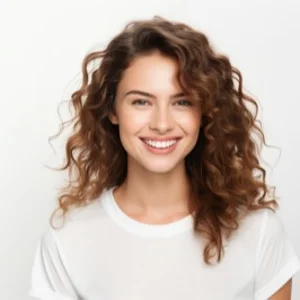
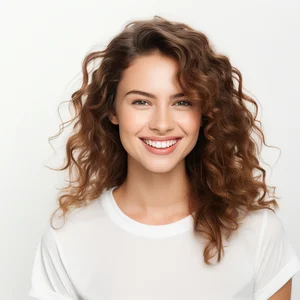
Standardize contact forms, fix periodontal page content, and update hero images

diff --git a/periodontal-gum-treatments.html b/periodontal-gum-treatments.html
@@ -2914,14 +2914,14 @@
         <span style="margin: 0 8px; color: var(--gold-light);">/</span>
         <span style="color: var(--sage-light);">General &amp; Family Dentistry</span>
         <span style="margin: 0 8px; color: var(--gold-light);">/</span>
-        <span style="color: var(--ivory);">General Dentistry</span>
+        <span style="color: var(--ivory);">Periodontal (Gum) Treatment</span>
       </p>
       <div class="gold-badge">
         <svg width="14" height="14" viewBox="0 0 24 24" fill="none" stroke="currentColor" stroke-width="2" stroke-linecap="round" stroke-linejoin="round" style="margin-right: 4px;"><path d="M12 2l3.09 6.26L22 9.27l-5 4.87 1.18 6.88L12 17.77l-6.18 3.25L7 14.14 2 9.27l6.91-1.01L12 2z"></path></svg>
-        Everyday Dental Care, Planned Around Your Needs
+        Comprehensive Care for Healthy Gums
       </div>
-      <h1 class="hero-title">General Dentistry in&nbsp;Harrow</h1>
-      <p class="hero-subtitle">General dentistry in Harrow covers the everyday care that helps you maintain your oral health while also addressing common dental concerns &mdash; your appointments can be planned around your individual needs.</p>
+      <h1 class="hero-title">Periodontal (Gum) Treatment in&nbsp;Harrow</h1>
+      <p class="hero-subtitle">Healthy gums support your teeth and protect the structures beneath the gum line. We combine detailed assessment, personalised treatment planning and ongoing preventive care to help maintain the health of your gums.</p>
 
       <div class="hero-actions">
         <a href="#contact" class="btn-primary btn-gold" style="padding: 16px 36px; font-size: 16px;">
@@ -3061,7 +3061,7 @@
         </div>
 
         <div class="process-image">
-          <img src="./gallery-periodontal-process.webp" alt="Gum health assessment at Woodlands Centre for Dentistry" style="width: 100%; height: 100%; object-fit: cover; display: block;">
+          <img src="./gallery-periodontal-hero.webp" alt="Gum health assessment at Woodlands Centre for Dentistry" style="width: 100%; height: 100%; object-fit: cover; display: block;">
         </div>
 
         <div class="process-tile">
@@ -3238,7 +3238,7 @@
           <div class="review-stars">★★★★★</div>
           <img src="https://img.icons8.com/color/48/google-logo.png" alt="Google Review" style="width: 22px; height: 22px;">
         </div>
-        <p class="review-quote">"The planning was so clear before we even started. Excellent, modern clinic for cosmetic dentistry."</p>
+        <p class="review-quote">"My gum treatment plan was explained so clearly before we started. Excellent, modern clinic for periodontal care."</p>
         <div class="review-author">— Robert B. (Moor Park)</div>
       </div>
       <div class="review-marquee-card">
@@ -3272,7 +3272,7 @@
           <div class="review-stars">★★★★★</div>
           <img src="https://img.icons8.com/color/48/google-logo.png" alt="Google Review" style="width: 22px; height: 22px;">
         </div>
-        <p class="review-quote">"The planning was so clear before we even started. Excellent, modern clinic for cosmetic dentistry."</p>
+        <p class="review-quote">"My gum treatment plan was explained so clearly before we started. Excellent, modern clinic for periodontal care."</p>
         <div class="review-author">— Robert B. (Moor Park)</div>
       </div>
       <div class="review-marquee-card">
@@ -3300,7 +3300,7 @@
           <div class="review-stars">★★★★★</div>
           <img src="https://img.icons8.com/color/48/google-logo.png" alt="Google Review" style="width: 22px; height: 22px;">
         </div>
-        <p class="review-quote">"I was nervous about changing my smile but the whole process was explained clearly and I felt in control every step of the way."</p>
+        <p class="review-quote">"I was nervous about my gum disease diagnosis but the whole process was explained clearly and I felt in control every step of the way."</p>
         <div class="review-author">— Priya K. (Pinner)</div>
       </div>
       <div class="review-marquee-card">
@@ -3334,7 +3334,7 @@
           <div class="review-stars">★★★★★</div>
           <img src="https://img.icons8.com/color/48/google-logo.png" alt="Google Review" style="width: 22px; height: 22px;">
         </div>
-        <p class="review-quote">"I was nervous about changing my smile but the whole process was explained clearly and I felt in control every step of the way."</p>
+        <p class="review-quote">"I was nervous about my gum disease diagnosis but the whole process was explained clearly and I felt in control every step of the way."</p>
         <div class="review-author">— Priya K. (Pinner)</div>
       </div>
       <div class="review-marquee-card">
@@ -3459,10 +3459,10 @@
           <input type="text" class="form-input" placeholder="Name *" required>
         </div>
         <div class="form-group">
-          <input type="tel" class="form-input" placeholder="Phone *" required>
+          <input type="email" class="form-input" placeholder="Email *" required>
         </div>
         <div class="form-group">
-          <input type="email" class="form-input" placeholder="Email *" required>
+          <input type="tel" class="form-input" placeholder="Phone *" required>
         </div>
         <div class="form-group">
           <textarea class="form-input" style="height: 120px; resize: none;" placeholder="Message *" required></textarea>

diff --git a/referrals.html b/referrals.html
@@ -2951,6 +2951,14 @@
           <textarea class="form-input" style="height: 120px; resize: none;" placeholder="Clinical Notes / Additional Information *" required></textarea>
         </div>
 
+        <div class="form-group">
+          <label for="referral-file-upload" class="form-input" style="display: flex; align-items: center; gap: 10px; cursor: pointer; color: var(--text-muted);">
+            <svg width="18" height="18" viewBox="0 0 24 24" fill="none" stroke="currentColor" stroke-width="2" stroke-linecap="round" stroke-linejoin="round" style="flex-shrink: 0;"><path d="M21.44 11.05l-9.19 9.19a6 6 0 0 1-8.49-8.49l9.19-9.19a4 4 0 0 1 5.66 5.66l-9.2 9.19a2 2 0 0 1-2.83-2.83l8.49-8.48"></path></svg>
+            <span id="referral-file-upload-text">Attach X-Rays / Referral Letter (optional &mdash; PDF, JPG or PNG, max 3MB)</span>
+          </label>
+          <input type="file" id="referral-file-upload" accept=".pdf,.jpg,.jpeg,.png" style="display: none;" onchange="if (this.files.length &amp;&amp; this.files[0].size > 3*1024*1024) { alert('File is larger than 3MB. Please choose a smaller file.'); this.value = ''; document.getElementById('referral-file-upload-text').textContent = 'Attach X-Rays / Referral Letter (optional — PDF, JPG or PNG, max 3MB)'; } else { document.getElementById('referral-file-upload-text').textContent = this.files.length ? this.files[0].name : 'Attach X-Rays / Referral Letter (optional — PDF, JPG or PNG, max 3MB)'; }">
+        </div>
+
         <div class="form-group" style="display: flex; align-items: flex-start; gap: 10px; margin-bottom: 28px;">
           <input type="checkbox" id="referral-consent" required style="margin-top: 4px; width: 18px; height: 18px; flex-shrink: 0;">
           <label for="referral-consent" style="font-size: 14px; color: var(--text-muted); line-height: 1.5;">I confirm the patient has consented to this referral and to their information being shared with Woodlands Centre for Dentistry for the purpose of this treatment. *</label>

diff --git a/preventive-dentistry.html b/preventive-dentistry.html
@@ -3031,7 +3031,7 @@
         </div>
 
         <div class="process-image">
-          <img src="./gallery-preventive-process.webp" alt="Preventive dental care at Woodlands Centre for Dentistry" style="width: 100%; height: 100%; object-fit: cover; display: block;">
+          <img src="./gallery-preventive-hero.webp" alt="Preventive dental care at Woodlands Centre for Dentistry" style="width: 100%; height: 100%; object-fit: cover; display: block;">
         </div>
 
         <div class="process-tile">
@@ -3280,9 +3280,15 @@
       <p class="section-desc" style="color: var(--sage-light); font-size: 16px; margin-bottom: 32px;">Looking for a private dentist in Harrow? Fill in your details below, and our friendly reception team will reach out to confirm your preferred time.</p>
 
       <form onsubmit="event.preventDefault(); alert('Thank you! We will call you shortly.');">
-        <div class="form-group"><input type="text" class="form-input" placeholder="Name *" required></div>
-        <div class="form-group"><input type="tel" class="form-input" placeholder="Phone *" required></div>
-        <div class="form-group"><input type="email" class="form-input" placeholder="Email *" required></div>
+        <div class="form-group">
+          <input type="text" class="form-input" placeholder="Name *" required>
+        </div>
+        <div class="form-group">
+          <input type="email" class="form-input" placeholder="Email *" required>
+        </div>
+        <div class="form-group">
+          <input type="tel" class="form-input" placeholder="Phone *" required>
+        </div>
         <div class="form-group"><textarea class="form-input" style="height: 120px; resize: none;" placeholder="Message *" required></textarea></div>
         <button type="submit" class="btn-primary btn-gold form-submit-btn" style="justify-content: center; padding: 16px 32px; font-size: 16px;">Send Consultation Request →</button>
       </form>

diff --git a/removable-braces-for-kids.html b/removable-braces-for-kids.html
@@ -3081,7 +3081,7 @@
         </div>
 
         <div class="process-image">
-          <img src="./gallery-removablekids-process.webp" alt="Removable orthodontic appliances for children at Woodlands Centre for Dentistry" style="width: 100%; height: 100%; object-fit: cover; display: block;">
+          <img src="./gallery-removablekids-hero.webp" alt="Removable orthodontic appliances for children at Woodlands Centre for Dentistry" style="width: 100%; height: 100%; object-fit: cover; display: block;">
         </div>
 
         <div class="process-tile">
@@ -3499,10 +3499,10 @@
           <input type="text" class="form-input" placeholder="Name *" required>
         </div>
         <div class="form-group">
-          <input type="tel" class="form-input" placeholder="Phone *" required>
+          <input type="email" class="form-input" placeholder="Email *" required>
         </div>
         <div class="form-group">
-          <input type="email" class="form-input" placeholder="Email *" required>
+          <input type="tel" class="form-input" placeholder="Phone *" required>
         </div>
         <div class="form-group">
           <textarea class="form-input" style="height: 120px; resize: none;" placeholder="Message *" required></textarea>

diff --git a/fixed-braces.html b/fixed-braces.html
@@ -3057,7 +3057,7 @@
         </div>
 
         <div class="process-image">
-          <img src="./gallery-fixedbraces-process.webp" alt="Discussing children's fixed braces treatment at Woodlands Centre for Dentistry" style="width: 100%; height: 100%; object-fit: cover; display: block;">
+          <img src="./gallery-fixedbraces-hero.webp" alt="Discussing children's fixed braces treatment at Woodlands Centre for Dentistry" style="width: 100%; height: 100%; object-fit: cover; display: block;">
         </div>
 
         <div class="process-tile">
@@ -3455,10 +3455,10 @@
           <input type="text" class="form-input" placeholder="Name *" required>
         </div>
         <div class="form-group">
-          <input type="tel" class="form-input" placeholder="Phone *" required>
+          <input type="email" class="form-input" placeholder="Email *" required>
         </div>
         <div class="form-group">
-          <input type="email" class="form-input" placeholder="Email *" required>
+          <input type="tel" class="form-input" placeholder="Phone *" required>
         </div>
         <div class="form-group">
           <textarea class="form-input" style="height: 120px; resize: none;" placeholder="Message *" required></textarea>

diff --git a/invisalign-first.html b/invisalign-first.html
@@ -3059,7 +3059,7 @@
         </div>
 
         <div class="process-image">
-          <img src="./gallery-invisalignfirst-process.webp" alt="Invisalign First treatment for children at Woodlands Centre for Dentistry" style="width: 100%; height: 100%; object-fit: cover; display: block;">
+          <img src="./gallery-invisalignfirst-hero.webp" alt="Invisalign First treatment for children at Woodlands Centre for Dentistry" style="width: 100%; height: 100%; object-fit: cover; display: block;">
         </div>
 
         <div class="process-tile">
@@ -3457,10 +3457,10 @@
           <input type="text" class="form-input" placeholder="Name *" required>
         </div>
         <div class="form-group">
-          <input type="tel" class="form-input" placeholder="Phone *" required>
+          <input type="email" class="form-input" placeholder="Email *" required>
         </div>
         <div class="form-group">
-          <input type="email" class="form-input" placeholder="Email *" required>
+          <input type="tel" class="form-input" placeholder="Phone *" required>
         </div>
         <div class="form-group">
           <textarea class="form-input" style="height: 120px; resize: none;" placeholder="Message *" required></textarea>

diff --git a/invisalign-for-teens.html b/invisalign-for-teens.html
@@ -3061,7 +3061,7 @@
         </div>
 
         <div class="process-image">
-          <img src="./gallery-invisalignteens-process.webp" alt="Invisalign for Teens treatment planning at Woodlands Centre for Dentistry" style="width: 100%; height: 100%; object-fit: cover; display: block;">
+          <img src="./gallery-invisalignteens-hero.webp" alt="Invisalign for Teens treatment planning at Woodlands Centre for Dentistry" style="width: 100%; height: 100%; object-fit: cover; display: block;">
         </div>
 
         <div class="process-tile">
@@ -3490,10 +3490,10 @@
           <input type="text" class="form-input" placeholder="Name *" required>
         </div>
         <div class="form-group">
-          <input type="tel" class="form-input" placeholder="Phone *" required>
+          <input type="email" class="form-input" placeholder="Email *" required>
         </div>
         <div class="form-group">
-          <input type="email" class="form-input" placeholder="Email *" required>
+          <input type="tel" class="form-input" placeholder="Phone *" required>
         </div>
         <div class="form-group">
           <textarea class="form-input" style="height: 120px; resize: none;" placeholder="Message *" required></textarea>

diff --git a/implant-consultations.html b/implant-consultations.html
@@ -3036,7 +3036,7 @@
         </div>
 
         <div class="process-image">
-          <img src="./gallery-consult-process.webp" alt="Dental implant model used during consultations at Woodlands Centre for Dentistry" style="width: 100%; height: 100%; object-fit: cover; display: block;">
+          <img src="./gallery-consult-hero.webp" alt="Dental implant model used during consultations at Woodlands Centre for Dentistry" style="width: 100%; height: 100%; object-fit: cover; display: block;">
         </div>
 
         <div class="process-tile">
@@ -3404,10 +3404,10 @@
           <input type="text" class="form-input" placeholder="Name *" required>
         </div>
         <div class="form-group">
-          <input type="tel" class="form-input" placeholder="Phone *" required>
+          <input type="email" class="form-input" placeholder="Email *" required>
         </div>
         <div class="form-group">
-          <input type="email" class="form-input" placeholder="Email *" required>
+          <input type="tel" class="form-input" placeholder="Phone *" required>
         </div>
         <div class="form-group">
           <textarea class="form-input" style="height: 120px; resize: none;" placeholder="Message *" required></textarea>

diff --git a/smile-rehabilitation.html b/smile-rehabilitation.html
@@ -3034,7 +3034,7 @@
         </div>
 
         <div class="process-image">
-          <img src="./gallery-smilerehab-process.webp" alt="Smile rehabilitation treatment planning at Woodlands Centre for Dentistry" style="width: 100%; height: 100%; object-fit: cover; display: block;">
+          <img src="./gallery-smilerehab-hero.webp" alt="Smile rehabilitation treatment planning at Woodlands Centre for Dentistry" style="width: 100%; height: 100%; object-fit: cover; display: block;">
         </div>
 
         <div class="process-tile">
@@ -3429,10 +3429,10 @@
           <input type="text" class="form-input" placeholder="Name *" required>
         </div>
         <div class="form-group">
-          <input type="tel" class="form-input" placeholder="Phone *" required>
+          <input type="email" class="form-input" placeholder="Email *" required>
         </div>
         <div class="form-group">
-          <input type="email" class="form-input" placeholder="Email *" required>
+          <input type="tel" class="form-input" placeholder="Phone *" required>
         </div>
         <div class="form-group">
           <textarea class="form-input" style="height: 120px; resize: none;" placeholder="Message *" required></textarea>

diff --git a/facial-rejuvenation.html b/facial-rejuvenation.html
@@ -3057,7 +3057,7 @@
         </div>
 
         <div class="process-image">
-          <img src="./gallery-facialrejuvenation-process.webp" alt="Facial rejuvenation treatment at Woodlands Centre for Dentistry" style="width: 100%; height: 100%; object-fit: cover; display: block;">
+          <img src="./gallery-facialrejuvenation-hero.webp" alt="Facial rejuvenation treatment at Woodlands Centre for Dentistry" style="width: 100%; height: 100%; object-fit: cover; display: block;">
         </div>
 
         <div class="process-tile">
@@ -3455,10 +3455,10 @@
           <input type="text" class="form-input" placeholder="Name *" required>
         </div>
         <div class="form-group">
-          <input type="tel" class="form-input" placeholder="Phone *" required>
+          <input type="email" class="form-input" placeholder="Email *" required>
         </div>
         <div class="form-group">
-          <input type="email" class="form-input" placeholder="Email *" required>
+          <input type="tel" class="form-input" placeholder="Phone *" required>
         </div>
         <div class="form-group">
           <textarea class="form-input" style="height: 120px; resize: none;" placeholder="Message *" required></textarea>

diff --git a/invisalign-moderate.html b/invisalign-moderate.html
@@ -3029,7 +3029,7 @@
         </div>
 
         <div class="process-image">
-          <img src="./gallery-invisalignmoderate-process.webp" alt="Invisalign Moderate treatment at Woodlands Centre for Dentistry" style="width: 100%; height: 100%; object-fit: cover; display: block;">
+          <img src="./gallery-invisalignmoderate-hero.webp" alt="Invisalign Moderate treatment at Woodlands Centre for Dentistry" style="width: 100%; height: 100%; object-fit: cover; display: block;">
         </div>
 
         <div class="process-tile">
@@ -3439,10 +3439,10 @@
           <input type="text" class="form-input" placeholder="Name *" required>
         </div>
         <div class="form-group">
-          <input type="tel" class="form-input" placeholder="Phone *" required>
+          <input type="email" class="form-input" placeholder="Email *" required>
         </div>
         <div class="form-group">
-          <input type="email" class="form-input" placeholder="Email *" required>
+          <input type="tel" class="form-input" placeholder="Phone *" required>
         </div>
         <div class="form-group">
           <textarea class="form-input" style="height: 120px; resize: none;" placeholder="Message *" required></textarea>

diff --git a/anti-wrinkle-treatments.html b/anti-wrinkle-treatments.html
@@ -3050,7 +3050,7 @@
         </div>
 
         <div class="process-image">
-          <img src="./gallery-antiwrinkle-process.webp" alt="Anti-wrinkle treatment consultation at Woodlands Centre for Dentistry" style="width: 100%; height: 100%; object-fit: cover; display: block;">
+          <img src="./gallery-antiwrinkle-hero.webp" alt="Anti-wrinkle treatment consultation at Woodlands Centre for Dentistry" style="width: 100%; height: 100%; object-fit: cover; display: block;">
         </div>
 
         <div class="process-tile">
@@ -3448,10 +3448,10 @@
           <input type="text" class="form-input" placeholder="Name *" required>
         </div>
         <div class="form-group">
-          <input type="tel" class="form-input" placeholder="Phone *" required>
+          <input type="email" class="form-input" placeholder="Email *" required>
         </div>
         <div class="form-group">
-          <input type="email" class="form-input" placeholder="Email *" required>
+          <input type="tel" class="form-input" placeholder="Phone *" required>
         </div>
         <div class="form-group">
           <textarea class="form-input" style="height: 120px; resize: none;" placeholder="Message *" required></textarea>
